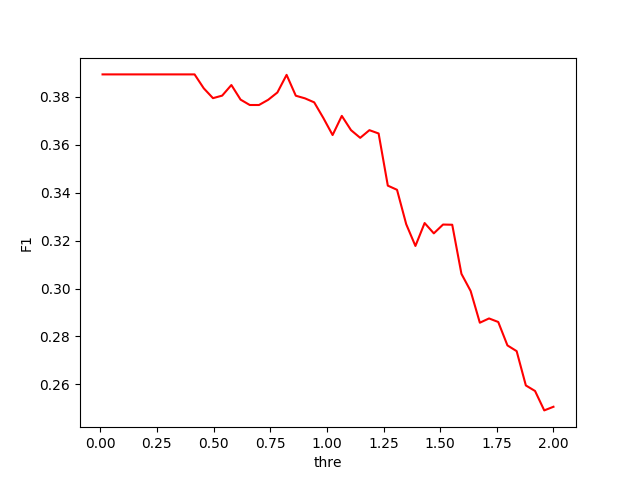
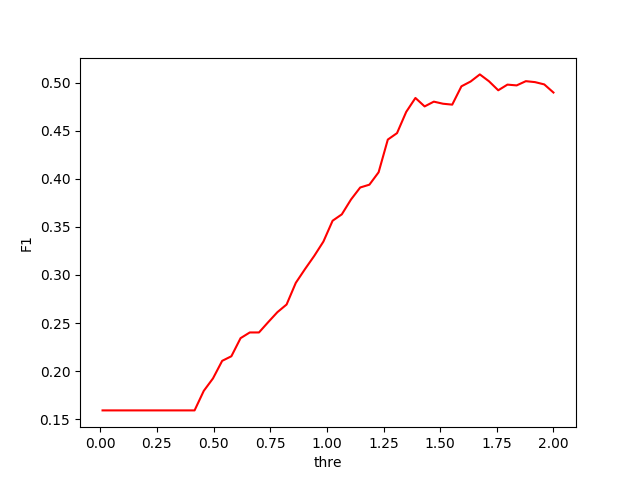
bugfix

diff --git a/Final/zhuwy/openset_pca_knn.py b/Final/zhuwy/openset_pca_knn.py
@@ -73,7 +73,7 @@ log = []
 thres = np.linspace(1e-2,2)
 for thre in thres:
     pred = model.predict(X_test)
-    pred[np.where(distances<thre)[0]] = 2
+    pred[np.where(distances>thre)[0]] = 2
     mse = mean_squared_error(y_test,pred)
     acc = accuracy_score(y_test,pred)
     recall = recall_score(y_test,pred, average='weighted')
